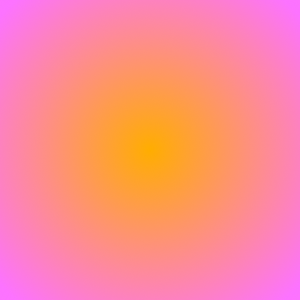
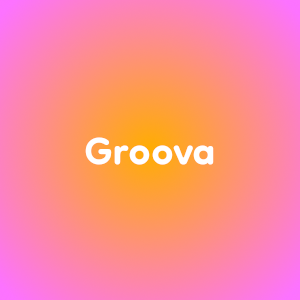
finishing up playlist generate func, added playlist covers

Changed region(s): [[0.27, 0.45, 0.72, 0.57]]

diff --git a/src/spotify_tools.py b/src/spotify_tools.py
@@ -8,6 +8,7 @@ import requests
 from lyricsgenius import Genius
 import random
 import response_format
+import base64
 
 load_dotenv()
 
@@ -17,7 +18,7 @@ redirectURI = os.getenv("SPOTIPY_REDIRECT_URI")
 
 def create_spotify_oauth():
 
-    scopes = ["user-top-read", "playlist-modify-private","playlist-modify-public"]
+    scopes = ["user-top-read", "playlist-modify-private","playlist-modify-public", "ugc-image-upload"]
 
     return spotipy.oauth2.SpotifyOAuth(
             client_id=clientID,
@@ -169,11 +170,12 @@ def get_song_link(song_name, artist_list):
     results = sp.search(q=query, type='track', limit=1)
 
     song_url = None
+
     if results['tracks']['total'] > 0:
         #Get the song URL from the first result
         track = results['tracks']['items'][0]
 
-        if song_name.lower() in track['name'].lower() and artist_list[0].lower() in track['artists'][0]['name'].lower():
+        if song_name.lower() in track['name'].lower() and artist_list[0].lower() in track['artists'][0]['name'].lower() and track['artists'][0]['name'].lower().count(artist_list[0].lower()) == 1:
             song_url = results['tracks']['items'][0]['external_urls']['spotify']
 
     return song_url
@@ -240,30 +242,51 @@ def create_playlist_song_list(song_info_list, playlist_name):
     
     sp = spotipy.Spotify(auth=token)
 
-    # Create a new empty playlist
-    user_playlist = sp.user_playlist_create(user, playlist_name, public=False, collaborative=False, description="Made with Groova")
-    playlist_id = user_playlist['id']
-
-    song_URLs = []
     #if the user given song exists, add it to song_URLs
     for song_info in song_info_list:
         song_link = get_song_link(song_info.song_name, song_info.artist_name_list)
 
-        if song_link and song_link not in song_URLs:
+        #Ensure no duplicates
+        if song_link not in song_URLs:
             song_URLs.append(song_link)
-        
+
+        #cut playlist off at len == 30
         if len(song_URLs) == 30:
             break
 
+    #if song url list is not empty, shuffle songs
     if song_URLs:
         random.shuffle(song_URLs)
-
+    song_URLs = []
+    #if songs are between 1 - 29, fill out playlist until 30
     if len(song_URLs) < 30:
+        print(len(song_URLs))
         extra = 30 - len(song_URLs)
         recommended_tracks = sp.recommendations(seed_tracks=song_URLs[:5], limit=extra)
         recommended_track_uris = [track['uri'] for track in recommended_tracks['tracks']]
         
         song_URLs.extend(recommended_track_uris)
+
+    # Create a new empty playlist
+    user_playlist = sp.user_playlist_create(user, playlist_name, public=False, collaborative=False, description="Made with Groova")
+    playlist_id = user_playlist['id']
+
+    #Get playlist cover
+
+    try:
+        with open('images/playlist_cover_1.png', 'rb') as image_file:
+            # Read image data
+            image_data = image_file.read()
+
+            # Encode image data to Base64
+            image_b64 = base64.b64encode(image_data).decode('utf-8')
+
+            # Upload and set playlist cover
+            sp.playlist_upload_cover_image(playlist_id, image_b64)
+
+        print("Playlist cover image updated successfully.")
+    except spotipy.SpotifyException as e:
+        print(f"Error: {e}")
 
     #add tracks to playlist
     sp.playlist_add_items(playlist_id, song_URLs, position=None)
@@ -313,7 +336,7 @@ def create_playlist(features_and_genres, pdetails):
         top_artist_url = get_artist_link(artist_name)
         artist_URLs.append(top_artist_url)
     
-    recommended_tracks = sp.recommendations(seed_artists=artist_URLs, limit=20, target_features=features_dict)
+    recommended_tracks = sp.recommendations(seed_artists=artist_URLs, limit=30, target_features=features_dict)
     recommended_track_uris = [track['uri'] for track in recommended_tracks['tracks']]
     playlist_id = user_playlist['id']
 

diff --git a/src/app.py b/src/app.py
@@ -120,13 +120,24 @@ def generate_playlist():
 
     react_input = request.get_json()
     playlist_details_input = react_input['playlist_details']
+    user_mood = playlist_details_input['userMoodOccasion']
 
     keywords_list = playlist_details_input['artistNames']
-    keywords_list.append(playlist_details_input['userMoodOccasion'])
+    keywords_list.append(user_mood)
 
-    songs = ai.curate_songs(keywords_list)
-    
-    playlist = spotify_tools.create_playlist_song_list(songs.song_list, playlist_details_input['playlistName'])
+    try: 
+        songs = ai.curate_songs(keywords_list)
+        playlist = spotify_tools.create_playlist_song_list(songs.song_list, playlist_details_input['playlistName'])
+    except Exception as e:
+        print(f"First attempt failed: {e}")
+        try:
+            songs = ai.curate_songs(keywords_list)
+            playlist = spotify_tools.create_playlist_song_list(songs.song_list, playlist_details_input['playlistName'])
+        except Exception as e:
+            print(f"Second attempt failed, initiating other method: {e}")
+            features_and_genres = ai.generate_feature_rating(user_mood)
+            playlist_details = set_p_details(playlist_details_input)
+            playlist = spotify_tools.create_playlist(features_and_genres, playlist_details)
 
     return {
         'playlistUrl': playlist['playlist_url'],

diff --git a/src/ai.py b/src/ai.py
@@ -10,7 +10,6 @@ from langchain.chat_models import ChatOpenAI
 from langchain.chains import LLMChain
 import ai_playlist_details
 import response_format
-from ai_lyric_tool import LyricSearch, get_lyrics
 from langchain.tools.base import StructuredTool
 
 content_chain_1 = PromptTemplate(input_variables=['user_mood'], template=constants.CONTENT_CHAIN_1)
@@ -62,7 +61,7 @@ agent_executor = initialize_agent(
 """
 
 memory = ConversationBufferMemory(memory_key="memory", return_messages=True)
-#mrkl = initialize_agent(toolss, llm, agent=AgentType.OPENAI_FUNCTIONS, agent_kwargs=agent_kwargs, memory=memory, verbose=True)
+mrkl = initialize_agent(toolss, llm, agent=AgentType.OPENAI_FUNCTIONS, agent_kwargs=agent_kwargs, memory=memory, verbose=True)
 
 #information gathering chain
 def gather_playlist_details(user_input, ask_for, playlist_details):
@@ -82,8 +81,8 @@ def generate_message(input_dict):
     return message
 
 def generate_playlist_ai(features_genres_pdetails):
-    #response = mrkl.run(features_genres_pdetails)
-    response = 'yuh!!!'
+    response = mrkl.run(features_genres_pdetails)
+    
     return response
 
 def curate_songs(keywords):
